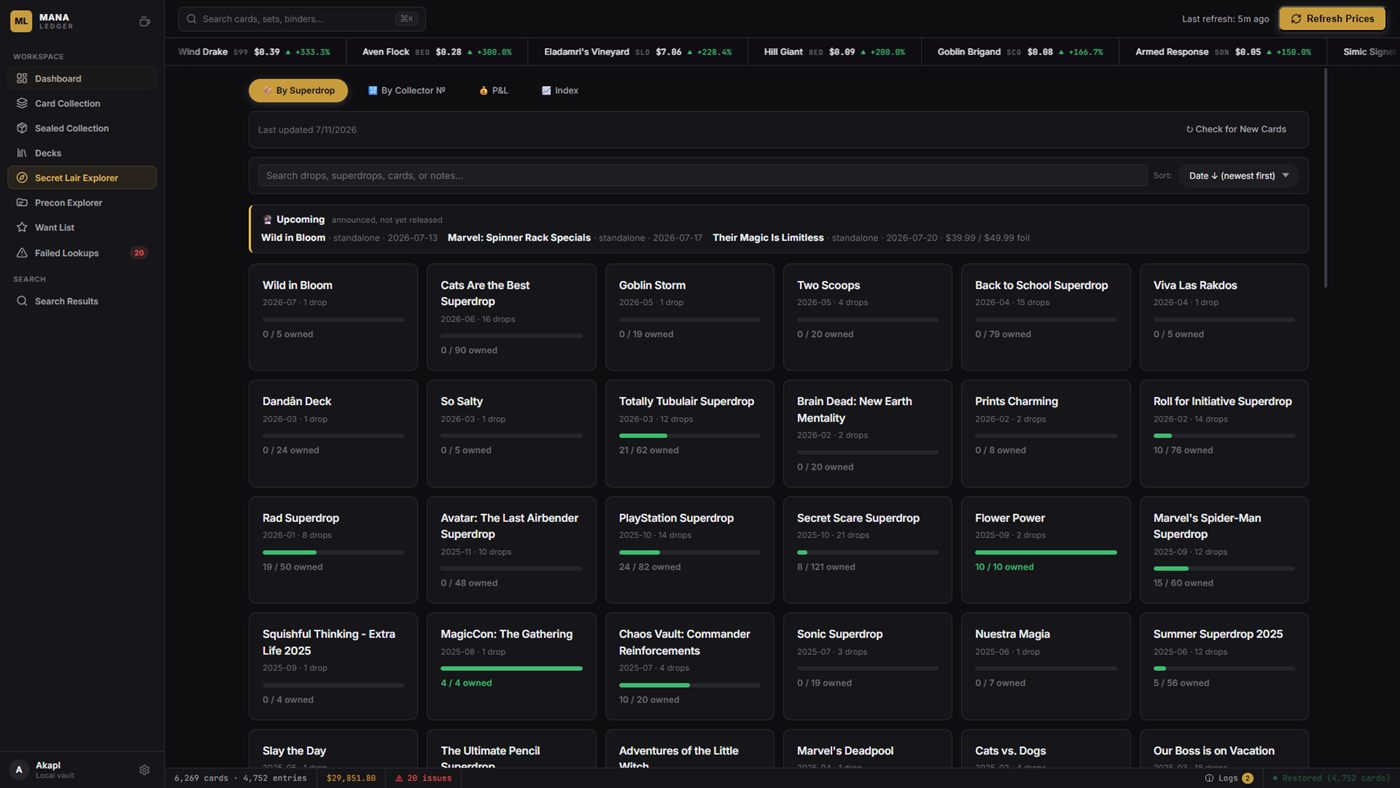
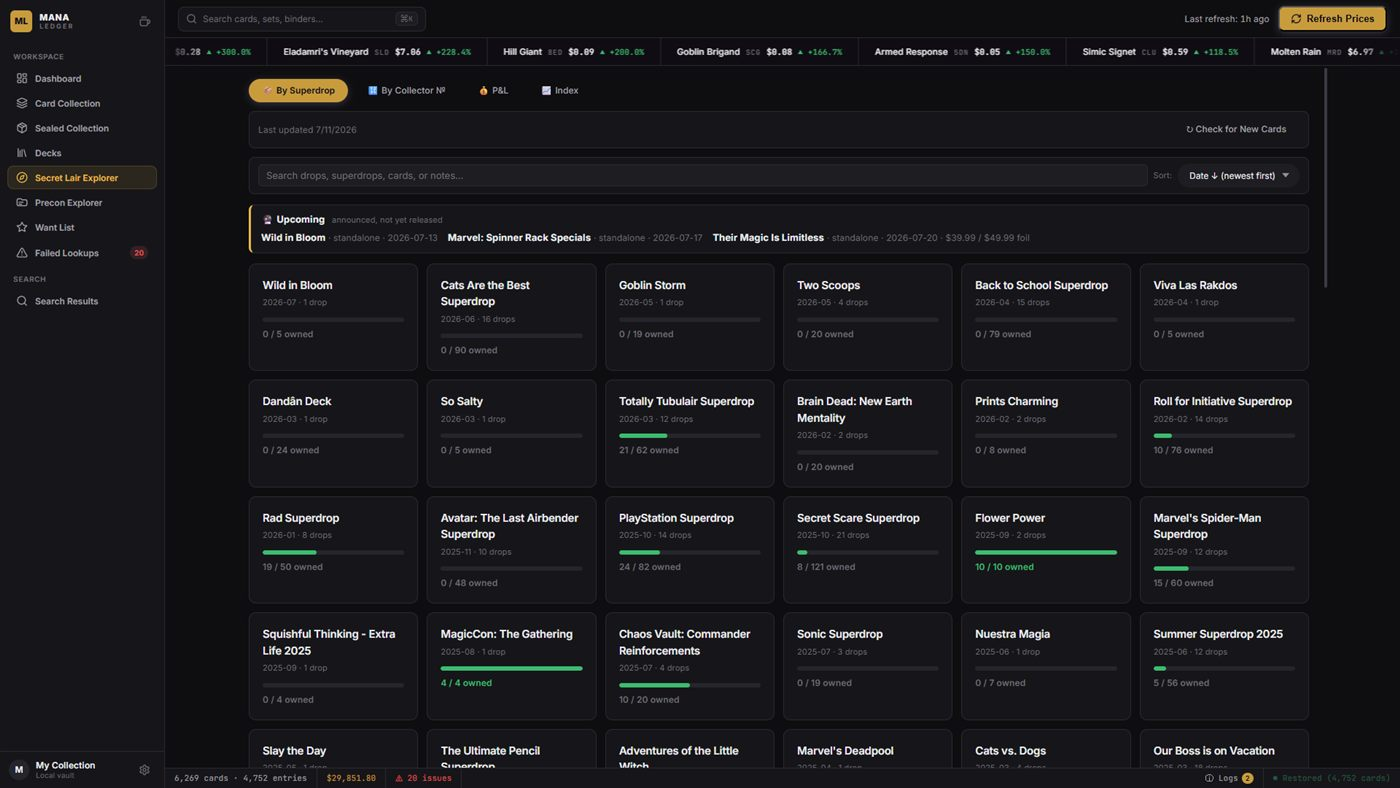
fix: replace hardcoded dev name in rail vault chip; refresh site screenshots
The rail footer showed 'Akapl' for every install — now 'My Collection'. Landing-page screenshots re-taken without the personal name in the corner; branding-folder Steam screenshots refreshed the same way.

Changed region(s): [[0.1229, 0.0609, 1.0, 0.0914], [0.86, 0.0, 0.8907, 0.0305], [0.0307, 0.9442, 0.0614, 0.9746]]

diff --git a/src/renderer/index.html b/src/renderer/index.html
@@ -85,9 +85,9 @@
     </nav>
 
     <div class="rail-footer">
-      <div class="rail-avatar">A</div>
+      <div class="rail-avatar">M</div>
       <div class="rail-acct">
-        <span class="rail-acct-name">Akapl</span>
+        <span class="rail-acct-name">My Collection</span>
         <span class="rail-acct-sub">Local vault</span>
       </div>
       <button class="rail-settings" id="sidebarSettings" title="Settings (Ctrl+,)">

diff --git a/CHANGELOG.md b/CHANGELOG.md
@@ -11,6 +11,8 @@ in-app "What's New" screen — from that version's section. Keep entries
 user-facing: what changed, not how.
 
 ## [Unreleased]
+### Fixed
+- **The account corner no longer shows a hardcoded name.** The bottom-left vault chip said "Akapl" for every user (a leftover from development); it now reads "My Collection".
 
 ## [1.0.7] - 2026-07-11
 ### Changed